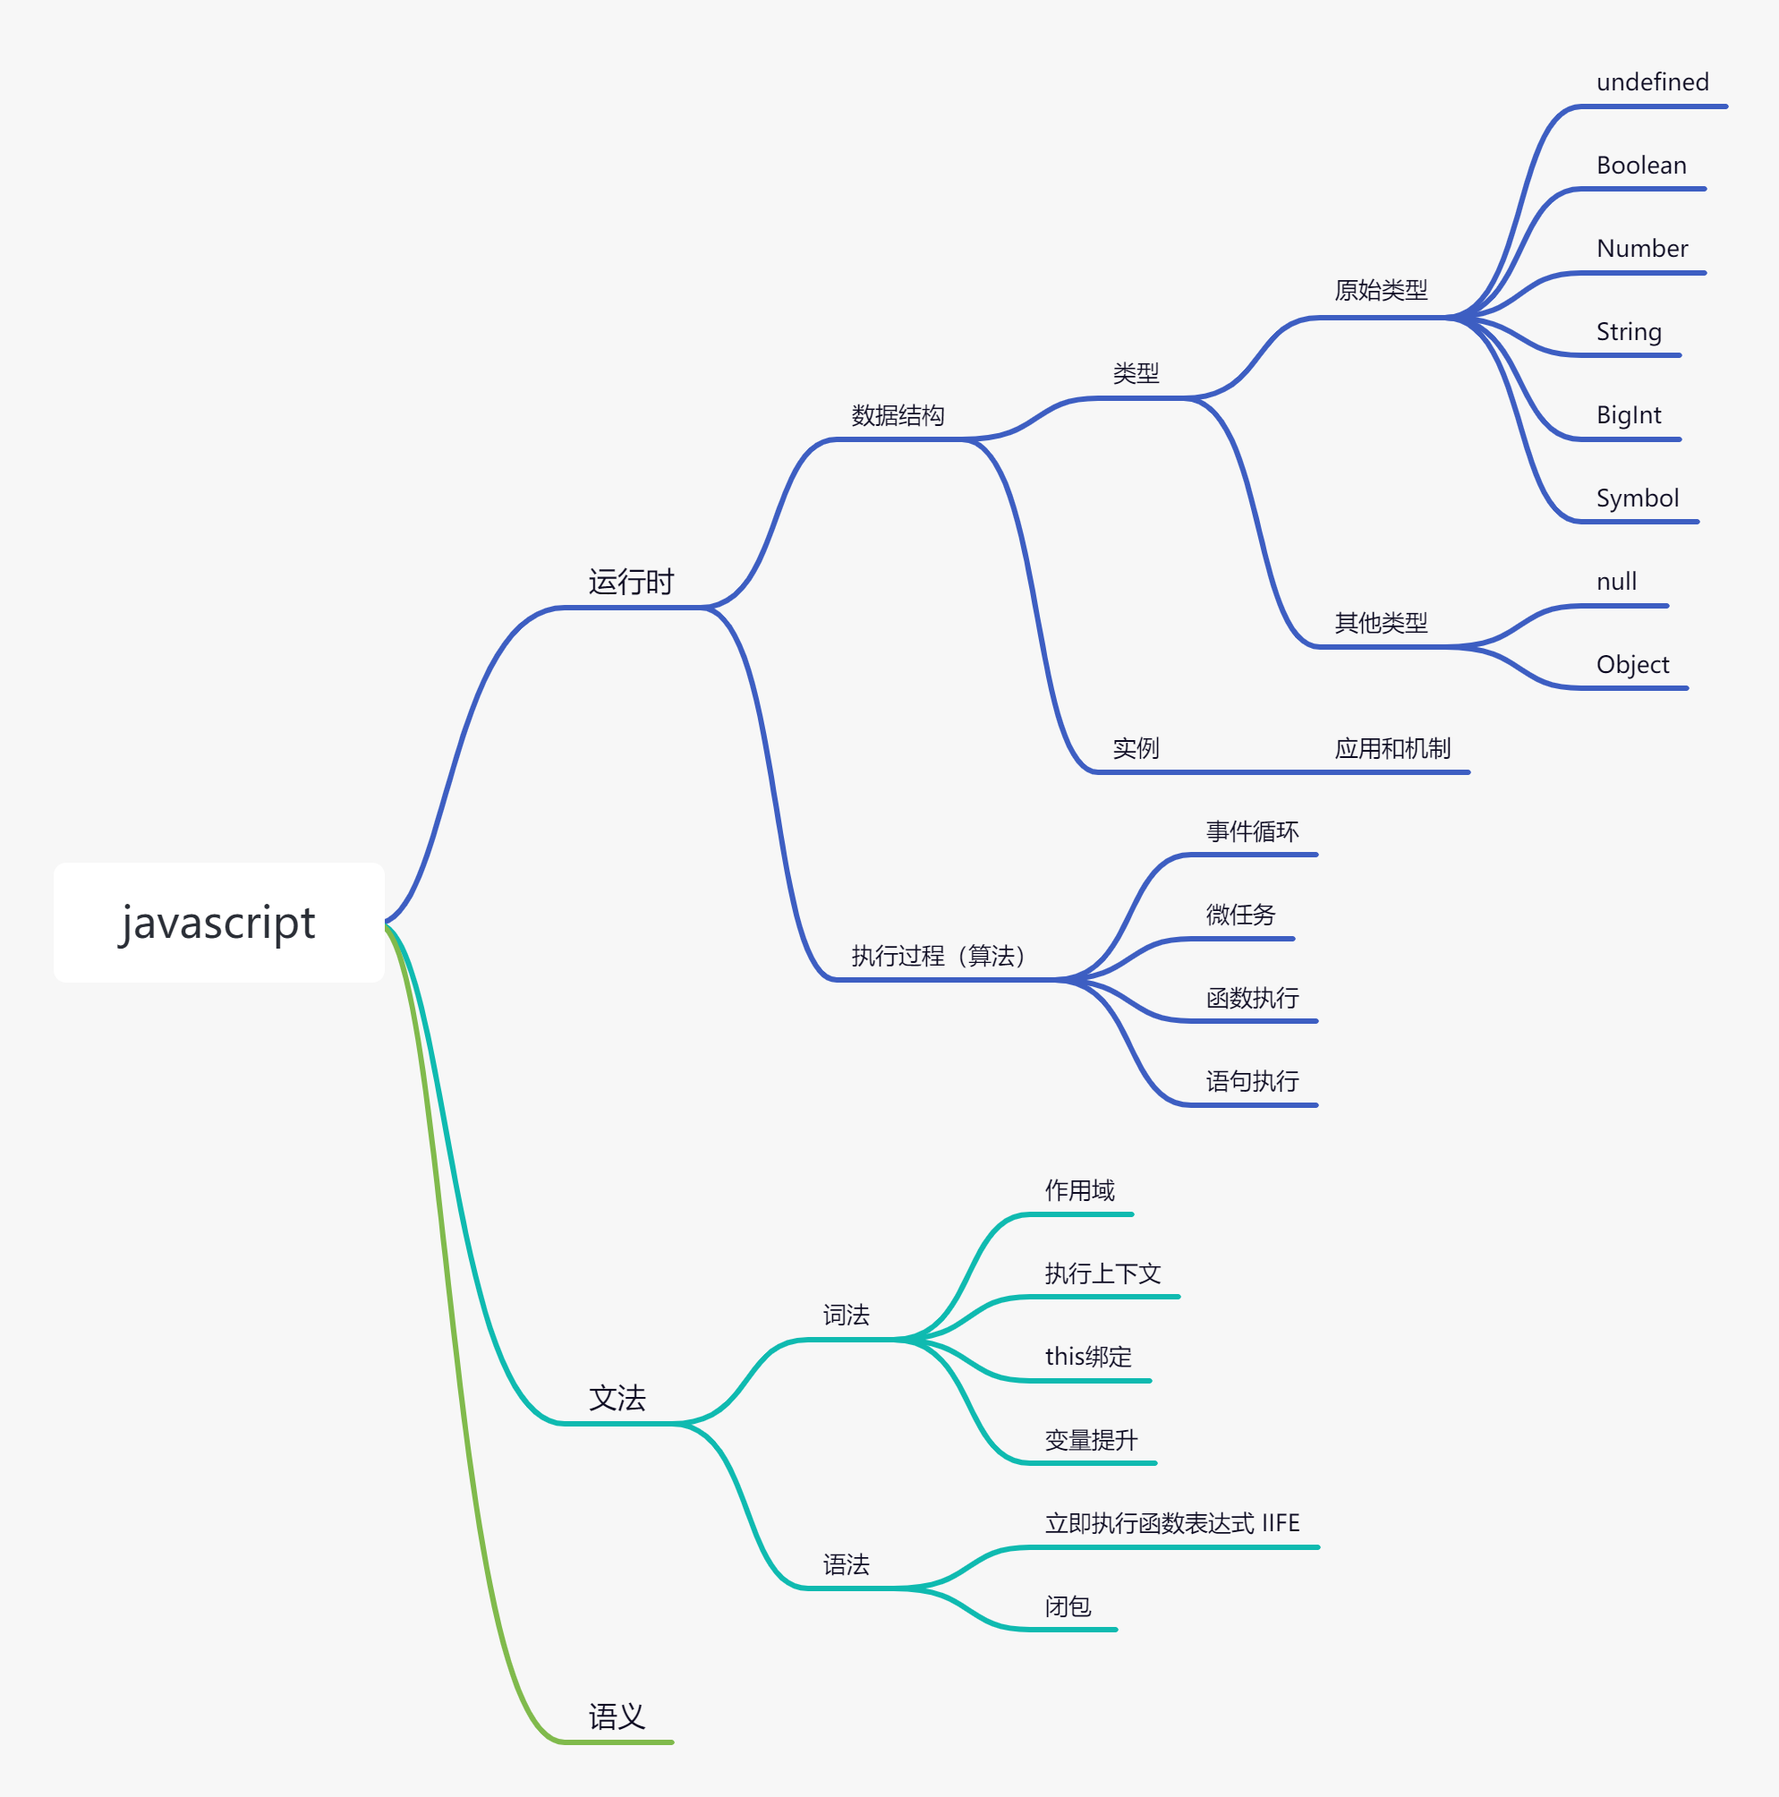
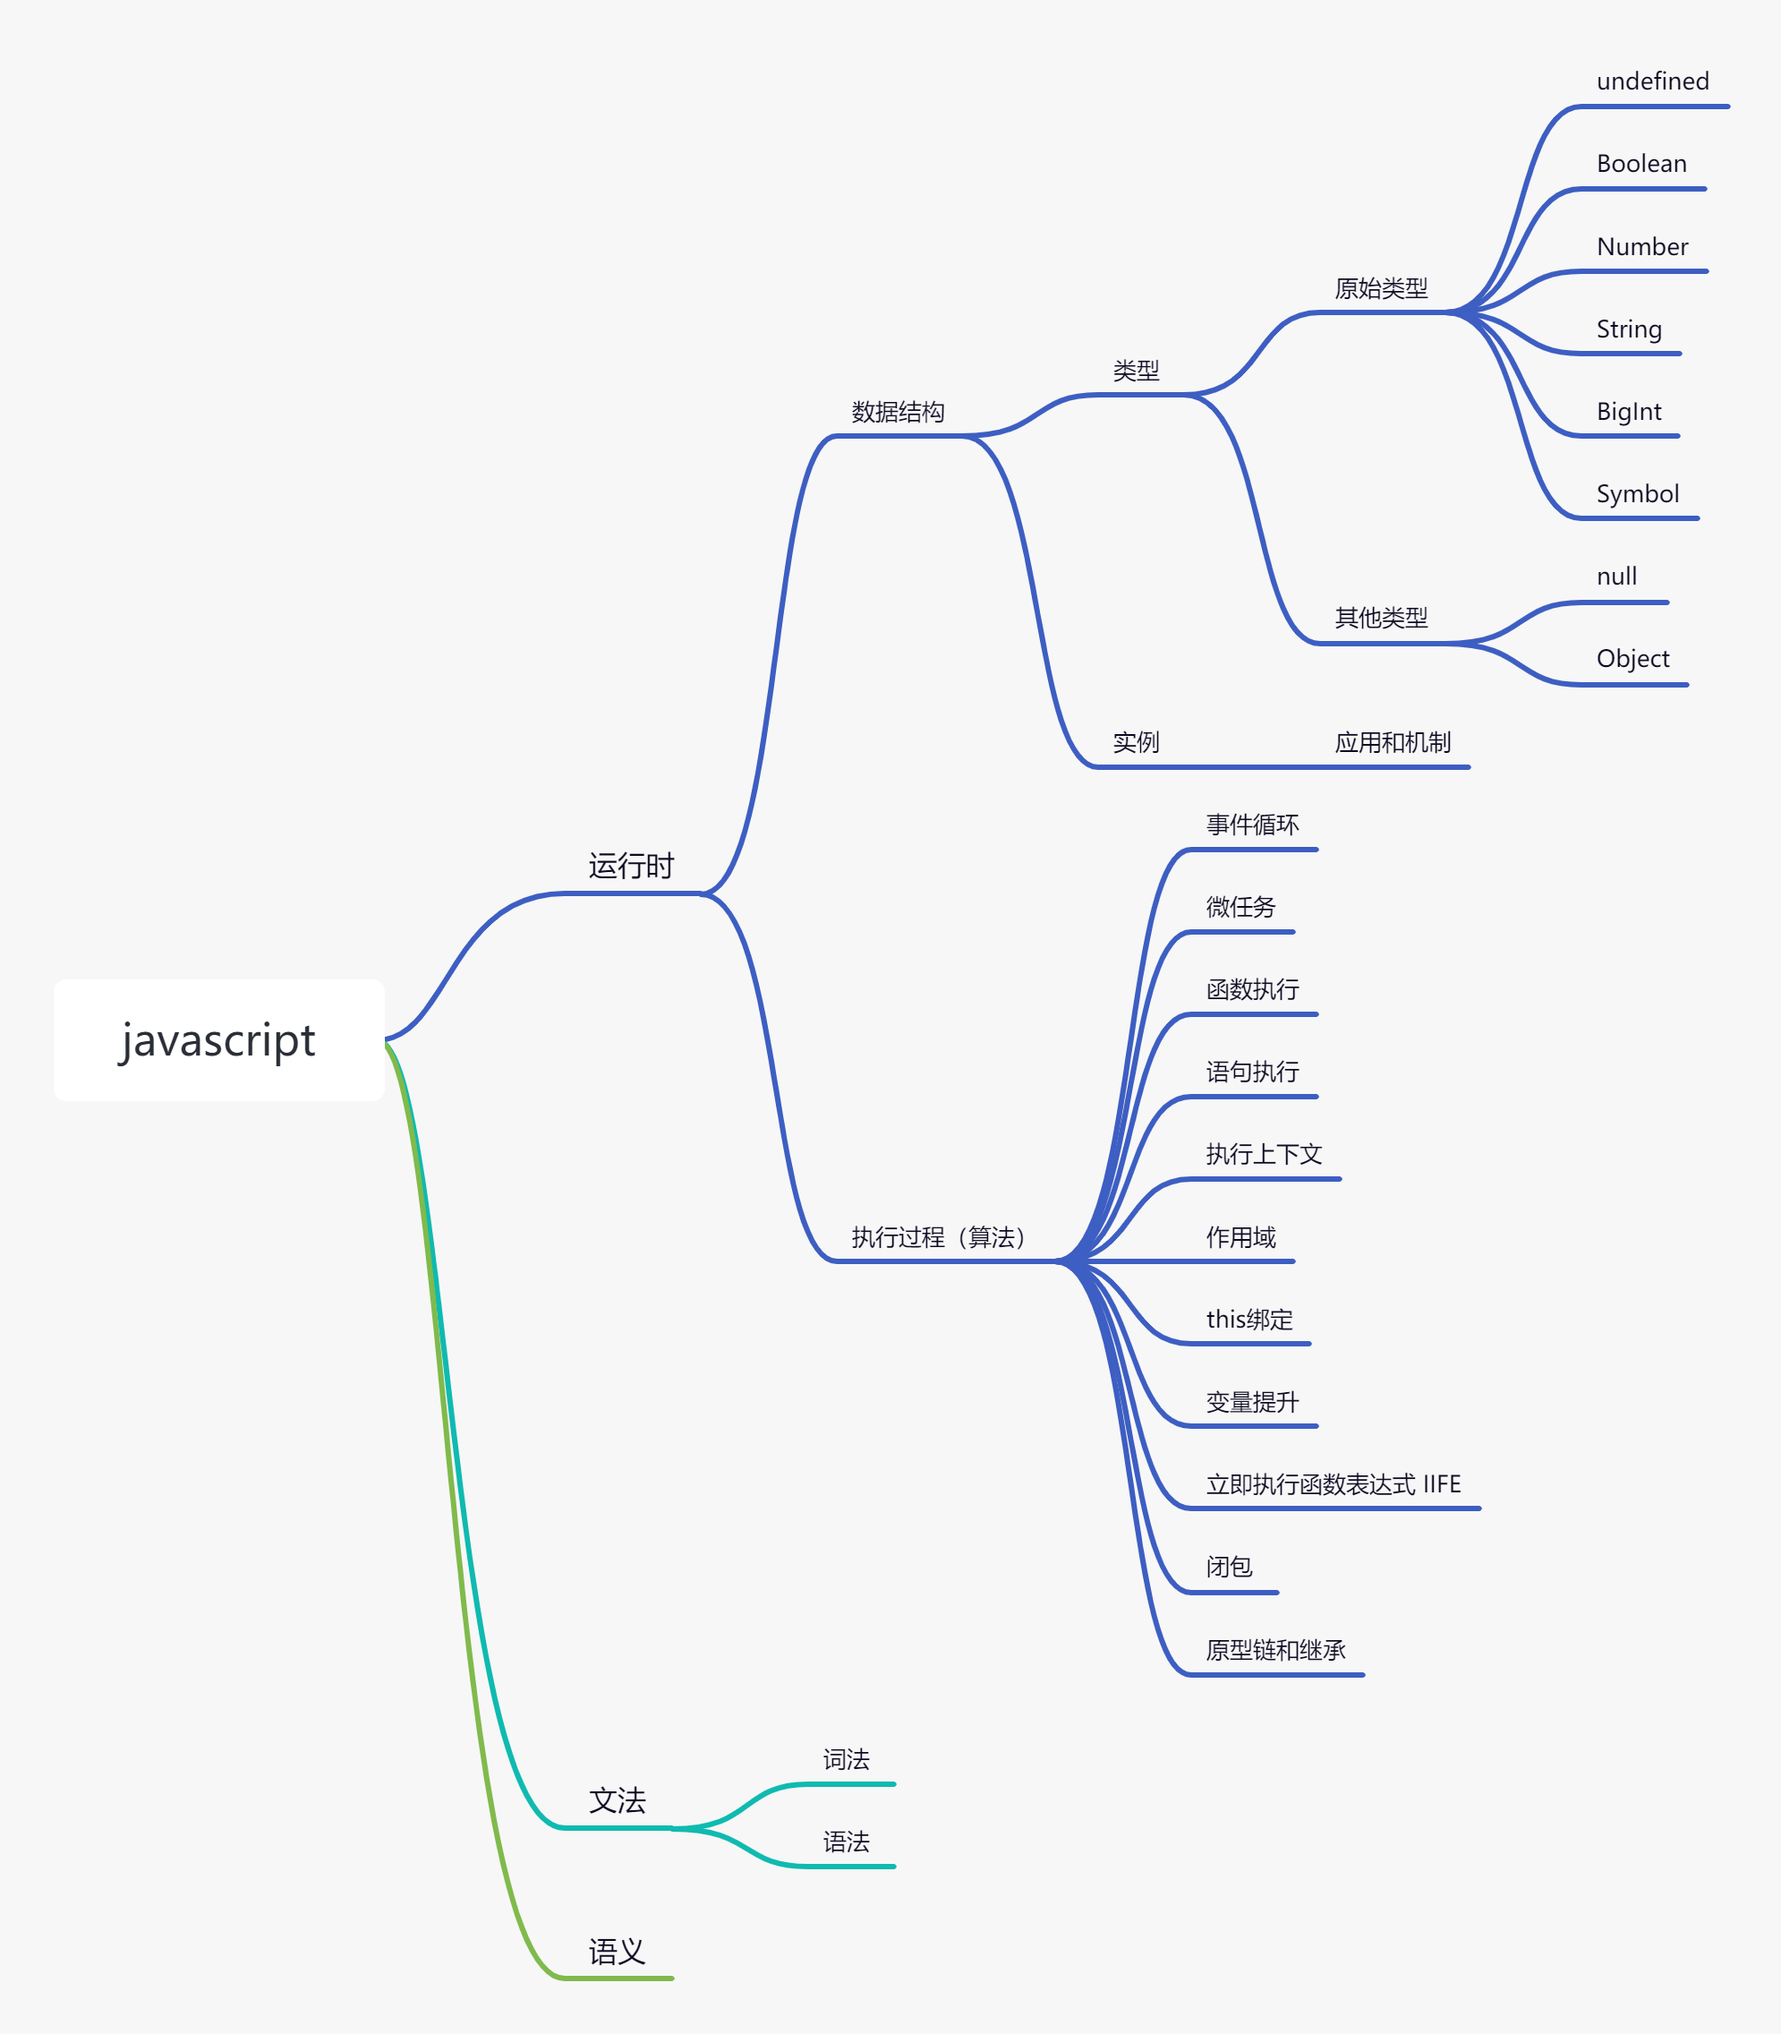
knowledge

diff --git a/knowledge-system/js/event_loop.md b/knowledge-system/js/event_loop.md
@@ -1,0 +1,39 @@
+# 事件循环
+
+## 进程和线程
+
+* `一个进程就是一个程序的运行实例`。详细解释就是，启动一个程序的时候，操作系统会为该程序创建一块内存，用来存放代码、运行中的数据和一个执行任务的主线程，我们把这样的一个运行环境叫进程。
+
+* `线程`是依附于进程的，而进程中使用多线程并行处理能提升运算效率。
+
+* 进程和线程的关系
+    * 进程中的任意一线程执行出错，都会导致整个进程的崩溃
+    * 线程之间共享进程中的数据
+    * 当一个进程关闭之后，操作系统会回收进程所占用的内存
+    * 进程之间的内容相互隔离
+
+* 而浏览器运行的时候是多进程的，包括：1 个浏览器（Browser）主进程、1 个 GPU 进程、1 个网络（NetWork）进程、多个渲染进程和多个插件进程。
+
+## 渲染进程
+
+渲染进程。核心任务是将 HTML、CSS 和 JavaScript 转换为用户可以与之交互的网页，排版引擎 Blink 和 JavaScript 引擎 V8 都是运行在该进程中，默认情况下，Chrome 会为每个 Tab 标签创建一个渲染进程。出于安全考虑，渲染进程都是运行在沙箱模式下
+
+每个渲染进程都有一个主线程，并且主线程非常繁忙，既要处理 DOM，又要计算样式，还要处理布局，同时还需要处理 JavaScript 任务以及各种输入事件。要让这么多不同类型的任务在主线程中有条不紊地执行，这就需要一个系统来统筹调度这些任务，这个统筹调度系统就是我们今天要讲的消息队列和事件循环系统。
+
+## 事件循环和消息队列
+
+1. 所有任务都在主线程上执行。
+2. 主线程之外，还存在一个消息队列。只要其他任务有了运行结果，就放在消息队列中排队等待执行。例如 输入事件（鼠标滚动、点击、移动）、微任务、文件读写、WebSocket、JavaScript 定时器等等。
+3. 一旦主线程中的所有任务执行完毕，系统就会读取消息队列，看看里面有哪些在排队的任务。那些任务结束等待状态，进入主线程执行栈，开始执行。
+
+主线程不断重复上面的第三步。这就是事件循环和消息队列。
+
+## 任务和微任务
+
+* 任务（Tasks）就是一段被执行的任意 JavaScript 代码。这些都在 任务队列（task queue）上被调度。例如，一段被直接执行的程序，事件出发后的回调函数，或 setInterval 和 setTimeout 设置的定时器回调。
+
+* 每当一个任务存在，事件循环都会检查该任务是否正把控制权交给其他 JavaScript 代码。如果不需要，事件循环就会运行微任务队列中的所有微任务。如果一个微任务通过调用 queueMicrotask(), 向队列中加入了更多的微任务，则那些新加入的微任务 会早于下一个任务运行 。这是因为事件循环会持续调用微任务直至队列中没有留存的，即使是在有更多微任务持续被加入的情况下。
+
+* 微任务（Microtasks）包括 queueMicrotask 添加的回调函数，promise，MutationObserver 等。
+
+* 消息队列机制并不是太灵活，为了适应效率和实时性，才引入了微任务。

diff --git a/knowledge-system/js/IIFE.md b/knowledge-system/js/IIFE.md
@@ -11,8 +11,8 @@ function a() {}() // Uncaught SyntaxError: Unexpected token ')'
 因为圆括号有两种使用方法，一种是写在函数名后表示调用函数，一种是在其中写表达式表示计算表达式的值。
 
 ```js
-a() // 函数调用
-(1 + 2) // 计算表达式的值
+a(); // 函数调用
+(1 + 2); // 计算表达式的值
 ```
 
 如果作为表达式来写，圆括号里的表达式不能为空，否则会报错。
@@ -38,8 +38,8 @@ var a = function() {}()
 -function () {}()
 void function () {}()
 
-(function() {})()
-(function() {}())
+;(function() {})()
+;(function() {}())
 ```
 
 IIFE（Immediately Invoked Function Expression） 的好处是外界访问此 IIFE 中的变量，而且又不会污染全局作用域。如果需要外界使用其中的变量，将变量返回出来即可。
@@ -56,7 +56,14 @@ result; // "Barry"
 js 库经常使用 IIFE 来实现模块，这样不会污染全局环境
 
 ```js
-(function (global, xxx) {
+;(function (global, xxx) {
     global.xxx = xxx()
 })(this, function () {/* 库的定义，返回一个对象 */})
 ```
+
+括号有个缺点，那就是如果上一行代码不写分号，括号会被解释为上一行代码最末的函数调用，产生完全不符合预期，并且难以调试的行为，加号等运算符也有类似的问题。所以一些推荐不加分号的代码风格规范，会要求在括号前面加上分号。
+
+```js
+;(function(){}())
+```
+

diff --git a/knowledge-system/js/execution_context.md b/knowledge-system/js/execution_context.md
@@ -178,3 +178,15 @@ FunctionExectionContext = { // 函数执行上下文
 这是整篇文章中最简单的部分。在此阶段，完成对所有这些变量的分配，最后执行代码。
 
 **注意** — 在执行阶段，如果 JavaScript 引擎不能在源码中声明的实际位置找到 `let` 变量的值，它会被赋值为 `undefined`。
+
+## ES2018 中的执行上下文
+
+以上介绍的是 ES5 的执行上下文，在 ES2018 中，执行上下文又变成了这个样子，this 值被归入 lexical environment，但是增加了不少内容。
+
+* lexical environment：词法环境，当获取变量或者 this 值时使用。
+* variable environment：变量环境，当声明变量时使用。
+* code evaluation state：用于恢复代码执行位置。
+* Function：执行的任务是函数时使用，表示正在被执行的函数。
+* ScriptOrModule：执行的任务是脚本或者模块时使用，表示正在被执行的代码。
+* Realm：使用的基础库和内置对象实例。
+* Generator：仅生成器上下文有这个属性，表示当前生成器。

diff --git a/knowledge-system/js/closure.md b/knowledge-system/js/closure.md
@@ -3,7 +3,7 @@
 ## 定义
 
 理论的定义：
-* 一个函数和对其周围状态（lexical environment，词法环境）的引用捆绑在一起（或者说函数被引用包围），这样的组合就是闭包（closure）。也就是说，闭包让你可以在一个内层函数中访问到其外层函数的作用域。在 JavaScript 中，每当创建一个函数，闭包就会在函数创建的同时被创建出来。
+* 一个函数和对其周围状态（lexical environment，词法环境）的引用捆绑在一起（或者说函数被引用包围），这样的组合就是闭包（closure）。也就是说，闭包让你可以在一个内层函数中访问到其外层函数的作用域。在 JavaScript 中，每当创建一个函数，闭包就会在函数创建的同时被创建出来。（闭包其实是绑定了执行环境的函数）
 
 实践的定义：
 * 一个函数即使创建它的上下文已经销毁，它仍然存在（比如，内部函数从父函数中返回）

diff --git a/knowledge-system/js/prototype.md b/knowledge-system/js/prototype.md
@@ -2,11 +2,10 @@
 
 ## new 调用的时候发生了什么
 
-1. 创建一个空对象，作为将要返回的对象实例。
-2. 将这个空对象的原型，指向构造函数的prototype属性。
-3. 将这个空对象赋值给函数内部的this关键字。
-4. 开始执行构造函数内部的代码。
-5. 然后返回这个新实例
+1. 以函数的 prototype 为原型创建一个对象。
+2. 将这个对象赋值给函数内部的this关键字。
+3. 开始执行构造函数内部的代码。
+4. 如果函数返回值是对象，则返回这个对象，否则返回第一步创建的对象
 
 下面是 `new` 命令简化的内部流程：
 

diff --git a/knowledge-system/js/this.md b/knowledge-system/js/this.md
@@ -404,3 +404,37 @@ person1.obj.foo2().call(person2) // obj
 ```
 </details>
 <br><br>
+
+第五题
+
+```js
+class C {
+    showThis() {
+        console.log(this);
+    }
+}
+var o = new C();
+var showThis = o.showThis;
+
+showThis();
+o.showThis();
+```
+
+<details>
+<summary>答案</summary>
+
+类中的代码默认按照 strict 模式运行，所以 this 指向了 undefined 而不是 window
+```js
+class C {
+    showThis() {
+        console.log(this);
+    }
+}
+var o = new C();
+var showThis = o.showThis;
+
+showThis(); // undefined
+o.showThis(); // o
+```
+</details>
+<br><br>

diff --git a/knowledge-system/README.md b/knowledge-system/README.md
@@ -5,13 +5,13 @@
 [链接](https://www.processon.com/mindmap/60e66dc01efad457654f9198)
 
 - javascript
-    * 文法
-        + 词法
+    * 运行时
+        + 执行过程
             * [执行上下文](./js/execution_context.md)
             * [作用域](./js/scope.md)
             * [this绑定](./js/this.md)
             * [变量提升](./js/hoisting.md)
-        + 语法
             * [IIFE](./js/IIFE.md)
             * [闭包](./js/closure.md)
             * [原型链和继承](./js/prototype.md)
+            * [事件循环](./js/event_loop.md)
